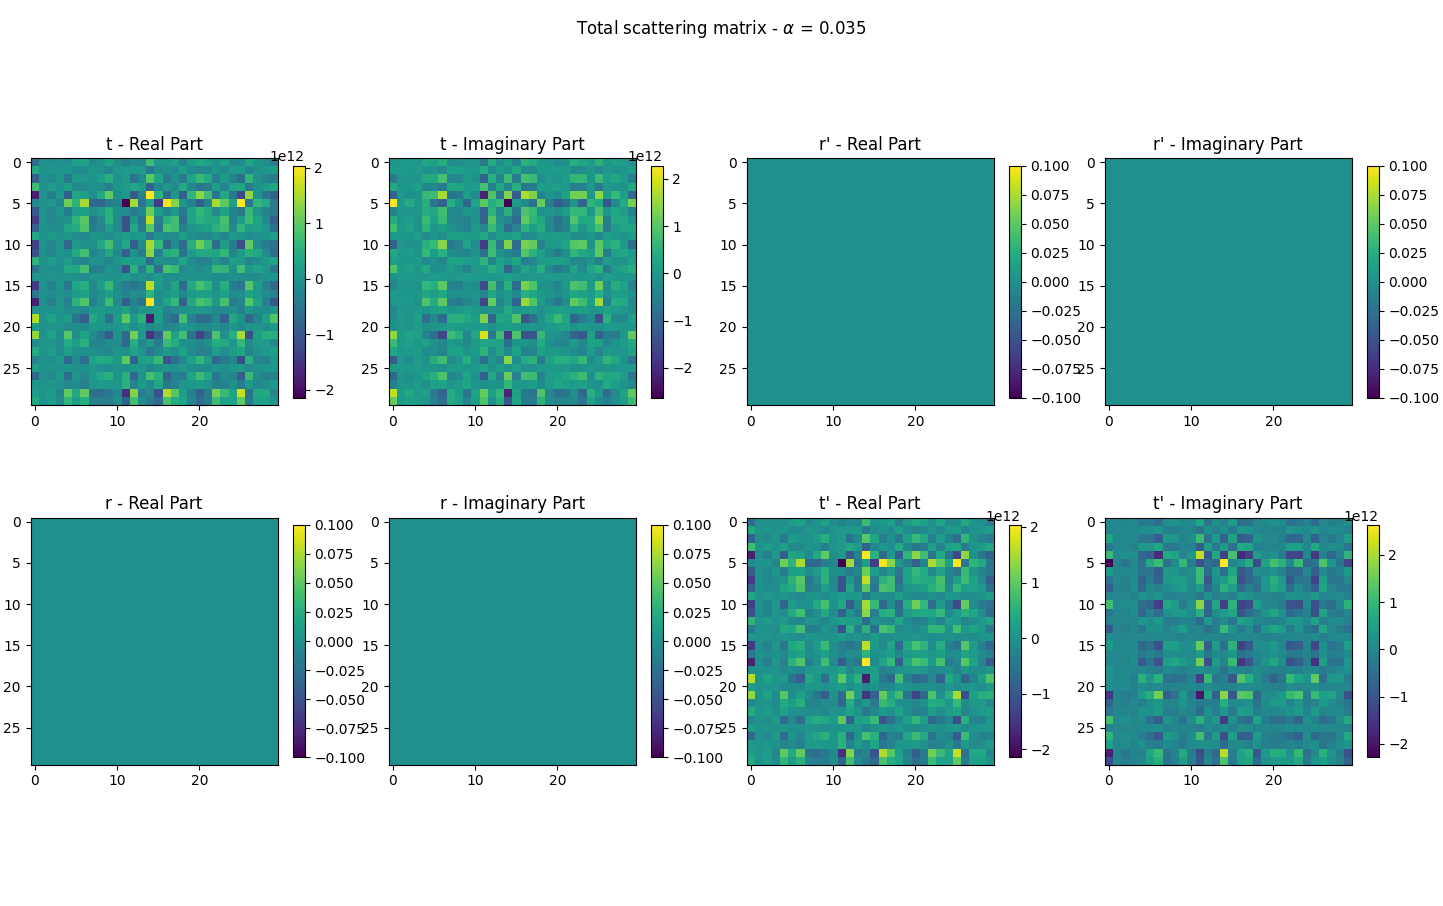
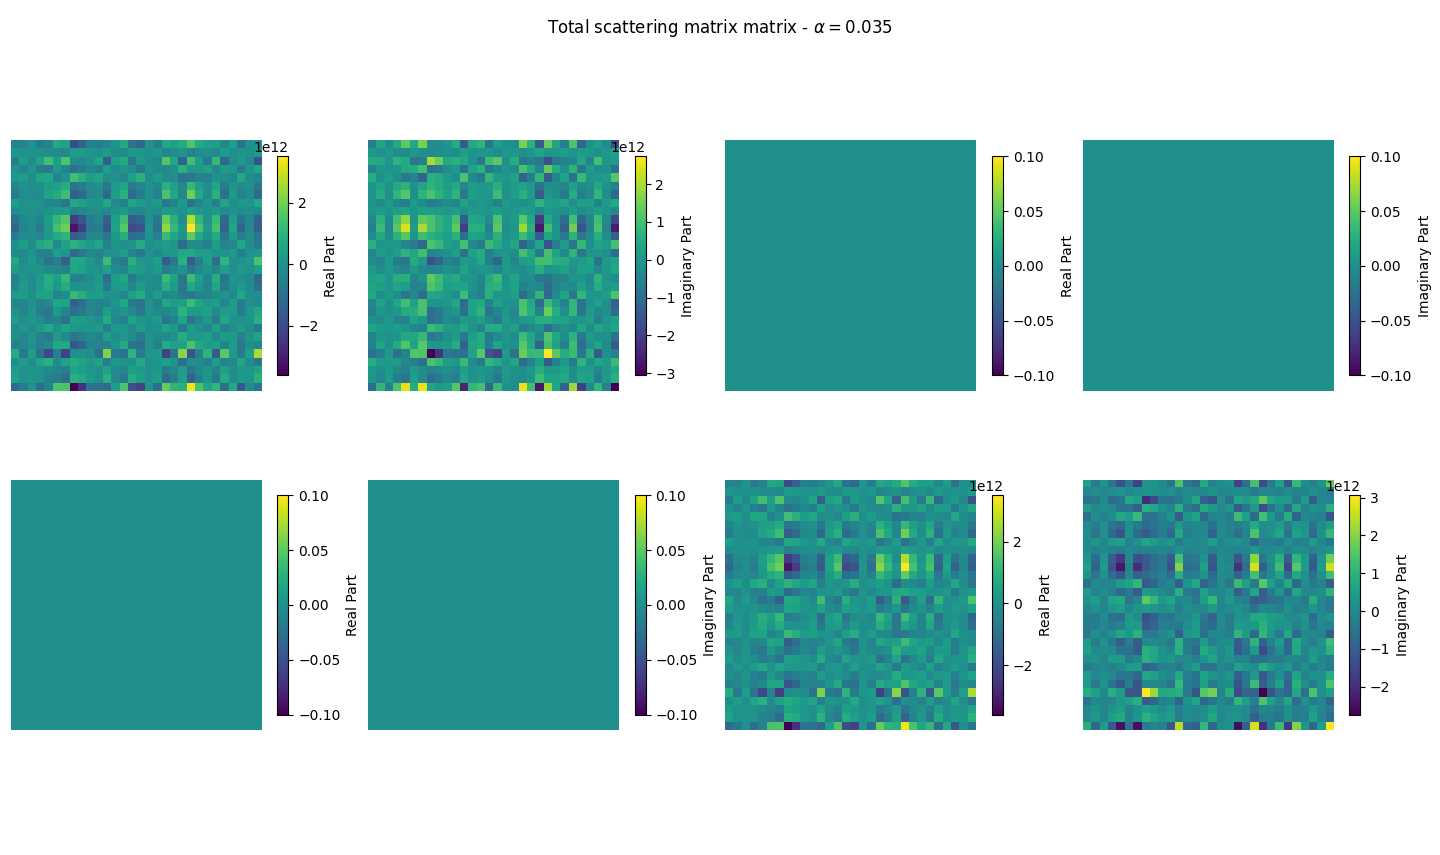
Update

Changed region(s): [[0.0, 0.5474, 1.0, 0.8819], [0.0, 0.152, 1.0, 0.4865], [0.375, 0.0, 0.625, 0.0608]]

diff --git a/main.py b/main.py
@@ -1,9 +1,7 @@
 from matplotlib import pyplot as plt
-import math
-import scipy
+from typing import List, Optional, Tuple
 import numpy as np
 import random
-from typing import List, Optional, Tuple
 import matplotlib.pyplot as plt
 
 class Homework2:
@@ -25,16 +23,17 @@ class Homework2:
     
     def __init__(self) -> None:
         
-        
+        # Generate a list with x-coordinates of 600 scattering points,
+        # and a list with 601 distances between scattering points.
         self.scattering_points, self.distances = self.generate_scattering_points_and_free_space()
         
         # Define alpha
-        self.alpha = 0
+        self.alpha = 0.035
         
         # Generate the k_m vector
         self.k_m = self.generate_k_m()
         
-        # Generate the 599 p_n matrices
+        # Generate the 601 p_n matrices
         self.p_n = self.generate_p_n()
 
         # Generate the scattering matrix.
@@ -201,7 +200,7 @@ class Homework2:
 
         Returns:
             Tuple[List[float], List[float]]: A tuple containing two lists.
-                The first list contains randomly generated coordinates.
+                The first list contains randomly generated x-coordinates.
                 The second list contains the distances between consecutive coordinates.
         """
 
@@ -217,11 +216,28 @@ class Homework2:
         coordinates = np.array(coordinates)
         coordinates.sort()
         
+        nr_coordinates = len(coordinates)
         # Calculate distances between consecutive coordinates
-        for index in range(1, len(coordinates)):
-            distance = coordinates[index] - coordinates[index - 1]
-            distances.append(distance)
-        
+        for index in range(0, nr_coordinates):
+            
+            if index == 0:
+                # Append the distance between x=0 and 
+                # the first scattering point.
+                distance = coordinates[0]
+                distances.append(distance)
+            else:    
+
+                # Calculate the distance between i-th scattering point
+                # and the previous scattering point.
+                distance = coordinates[index] - coordinates[index - 1]
+                distances.append(distance)
+                
+                # If the i-th scattering point is the last, calculate
+                # the distance from it to the last x-coordinate 60.000.
+                if index == nr_coordinates - 1:
+                    distance = 60000 - coordinates[i]
+                    distances.append(distance)
+
         distances = np.array(distances)
         
         return coordinates, distances  # Return the generated coordinates and distances
